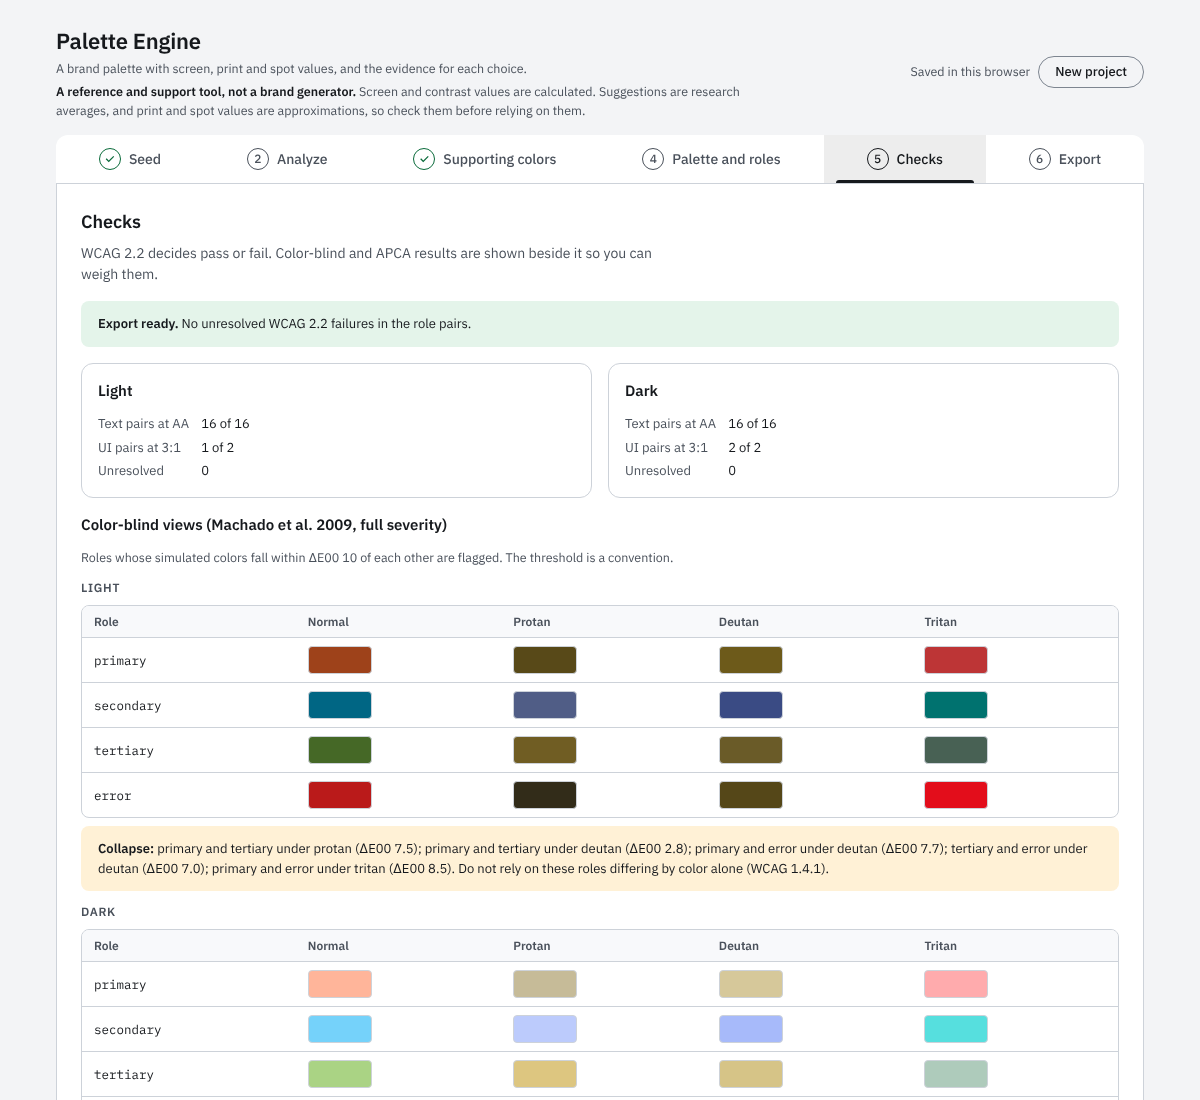
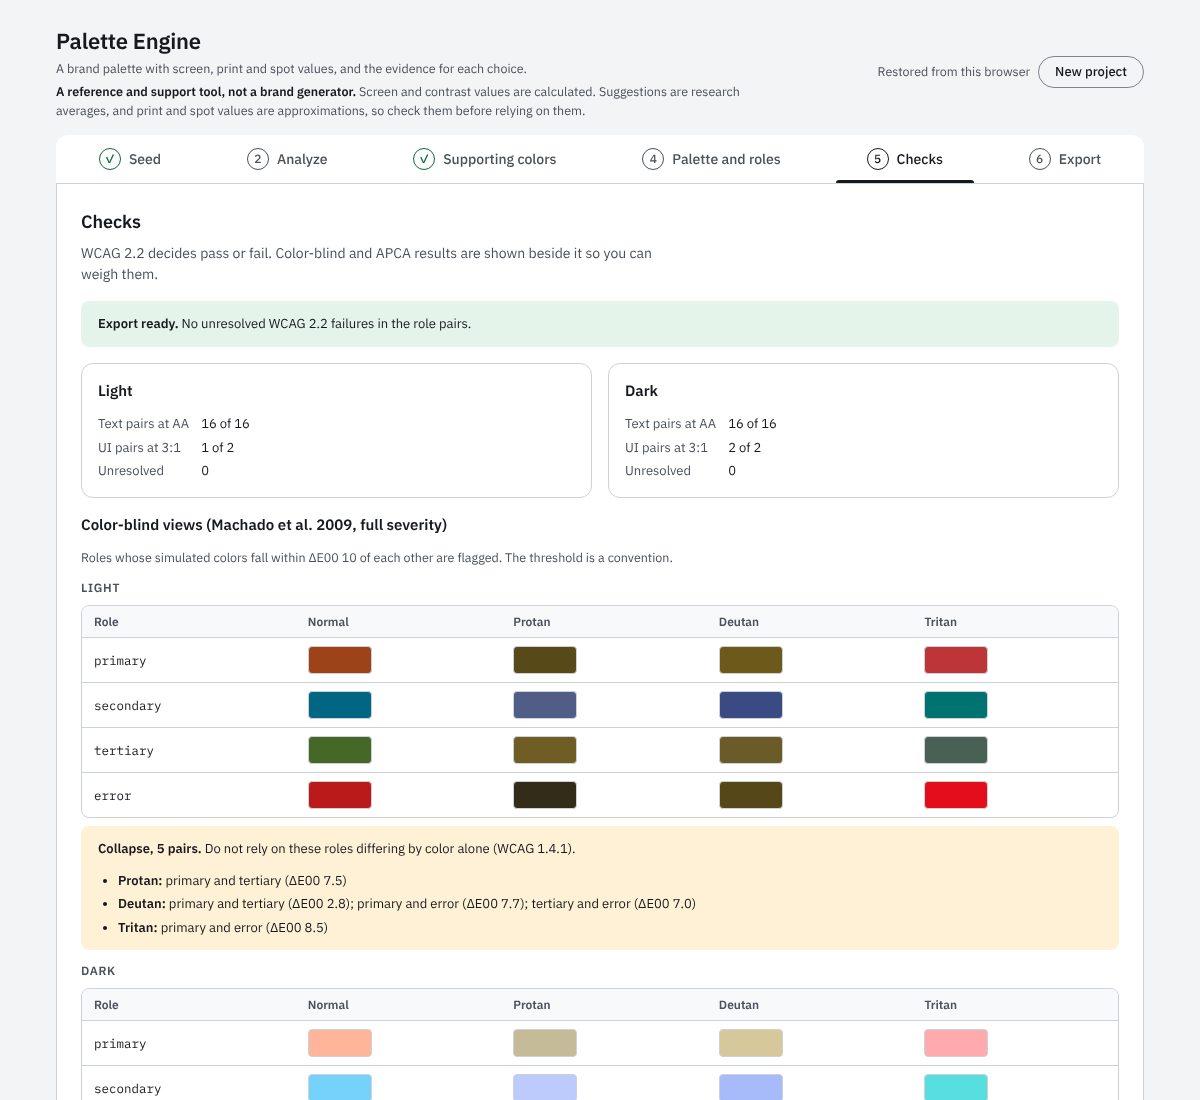
Retake README screenshots; add the proposal and review images (pe-update68)
- All seven step screenshots retaken from the page at pe-update67 in
  IBM Plex (the earlier set had been rendered in a fallback font):
  Step 3 now shows existing and generated colors, Suggest a fix and
  Type a proposal; Export shows the What will export summary.
- New: the existing-or-proposal card after a suggested fix on the
  sample's Fern Green, and pages 2 and 3 of the palette review PDF.
- README text for steps 3, 5 and 6 and the review PDF; the images
  README and the phase log say how and when they were made.
- Docs and images only; no code or test change.

Claude-Session: https://claude.ai/code/session_01731oeFpYHKAPBZQTLZHEbz

diff --git a/README.md b/README.md
@@ -53,19 +53,23 @@ data). The step images are cropped to the top of each step.
 
 **3. Supporting colors.** Harmony lenses propose secondary and tertiary colors, each with the strength of its evidence on the card. Up to three of each: Secondary 1 and Tertiary 1 set Material's secondary and tertiary roles, and the others become extended colors with roles of their own, optionally harmonized toward the primary.
 
-![Supporting colors step: Secondary 1 and Tertiary 1, each with an evidence tier, a lock switch and a rationale field, and buttons to add a second secondary or tertiary color](docs/images/step-3-supporting-colors.png)
+![Supporting colors step: Secondary 1, generated by the complementary lens with its evidence tier, and Tertiary 1, the brand's existing Fern Green, with a Suggest a fix for color-blind views button and a field to type a proposal; each has a name, a lock switch and a rationale](docs/images/step-3-supporting-colors.png)
+
+When a brand already has its colors, each one can carry a proposal: a lens pick, a typed alternative, or a suggested fix for color-blind views. In the sample, Fern Green and Kiln Terracotta look almost the same to someone with deuteranopia (ΔE00 3.4); the suggested fix keeps the hue within 15° and clears that pair. Nothing changes until Use proposal is chosen.
+
+![Tertiary 1 card: the existing Fern Green #5B7F3A in use beside the proposal #6C8C00, ΔE00 9.9 apart and labelled visible adjustment, with Use existing and Use proposal buttons, and the fix result listing the pairs that are still close](docs/images/step-3-existing-vs-proposal.png)
 
 **4. Palette and roles.** Material 3 roles in light and dark, with every text and UI pair checked against WCAG 2.2.
 
 ![Palette and roles step: primary, secondary, tertiary and error roles as swatches with hex values and an Override control](docs/images/step-4-palette-and-roles.png)
 
-**5. Checks.** WCAG 2.2 decides pass or fail. Color-blind simulations and APCA sit beside it, as advice.
+**5. Checks.** WCAG 2.2 decides pass or fail. Color-blind simulations and APCA sit beside it, as advice. When colors have proposals, the step opens by comparing the brand as entered with the proposals.
 
 ![Checks step: WCAG pair counts for light and dark, and color-blind simulations with a warning that some roles collapse](docs/images/step-5-checks.png)
 
-**6. Export.** Six formats plus a project file, all from one model.
+**6. Export.** A summary of exactly what will export, then six formats plus a project file, all from one model. With proposals, a palette review PDF comes first, for deciding with a client before the final files are made.
 
-![Export step: one card per file format with a Save button, a Download all button and a project file section](docs/images/step-6-export.png)
+![Export step: the export-ready note, a What will export table (Secondary 1 added by a lens, Tertiary 1 kept), and the first file cards with Save buttons](docs/images/step-6-export.png)
 
 ### What the exports look like
 
@@ -73,6 +77,11 @@ The printable brand color sheet (PDF) opens with the brand colors and a summary,
 
 ![Page 1 of the brand color sheet: three brand swatches, a colors-at-a-glance table, status notes, and a decisions and exceptions section](docs/images/sheet-page-1-summary.png)
 ![Page 2 of the brand color sheet: the Kiln Terracotta page with screen and print swatches, tonal palette, rationale, print values for six profiles, spot matches and accessibility](docs/images/sheet-page-2-one-color.png)
+
+The palette review (PDF) is a review draft for a client meeting: the palette as entered and with the proposals in typical vision and three color-blind simulations, then a page per proposal with both colors' values, their roles and a decision box. Pages 2 and 3 of the sample, with the suggested fix for Fern Green:
+
+![Page 2 of the palette review: the Fernhill palette as entered and with the proposal, as swatch strips in typical vision and in protanopia, deuteranopia and tritanopia simulation, with the proposed Tertiary 1 marked](docs/images/review-page-2-color-blind.png)
+![Page 3 of the palette review: Fern Green and its proposal side by side with OKLCH, CMYK (the proposal flagged outside print gamut), contrast, closest colors under each color-blind type, light and dark role previews, and a Keep existing, Use proposal or Discuss decision box](docs/images/review-page-3-decision.png)
 
 Website colors (CSS) are plain variables with the OKLCH value in a comment:
 

diff --git a/docs/phase-log.md b/docs/phase-log.md
@@ -193,3 +193,7 @@ Kwade committed pe-update65 as f61c163 and tried it on the live page. He then as
 ## 2026-11-20: Nearest fix for color-blind views (D49; pe-update67)
 
 pe-update66 was committed as be817b1 and Kwade tried the palette review on the live page. pe-update67 adds the nearest fix agreed earlier: one color moves, hue within 15°, and both the brand colors and the key roles have to clear ΔE00 10 under all three simulations. The search checks roles with `keyRoleOf`, a one-role version of the palette build (equal to buildPalette in 240 random tests), which keeps a search to about half a second in the page. The result is shown before anything changes; Make it the proposal puts it beside the existing color, so it flows into the Checks comparison and the review PDF. A full fix is rare: roles sit at tones Material fixes, so colors whose hues confuse under protanopia stay close as roles whatever their lightness, and partial results (with what is still close listed) are the usual answer.
+
+## 2026-11-20: README screenshots retaken (pe-update68, docs only)
+
+After pe-update67 (9904120), Kwade asked whether the README screenshots needed updating. A pixel comparison was not conclusive on its own, because the committed set turned out to have been rendered with a fallback font, not the IBM Plex named in `docs/images/README.md`. All seven step images were retaken in Plex from the page at pe-update67, which brings in the Step 3 labels (existing and generated colors, Suggest a fix, Type a proposal), the Export summary and the Analyze overview's Details buttons. Three images were added for D47 to D49: the existing-or-proposal card after a suggested fix on the sample's Fern Green (close to Kiln Terracotta under deuteranopia, ΔE00 3.4; the fix, #6C8C00, is ΔE00 9.9 away and clears that pair, though it falls outside GRACoL coated gamut), and pages 2 and 3 of the palette review PDF. The brand color sheet images are unchanged.

diff --git a/docs/images/README.md b/docs/images/README.md
@@ -1,7 +1,9 @@
 # Screenshots
 
-Images used by the root `README.md`. They show the fictional **Fernhill Bakery** example (`examples/fernhill-bakery/`) opened through the page's own
-"Open project file" control, in a light-mode browser at 1200 px wide, with IBM Plex Sans and Plex Mono. The step screenshots are cropped to the top of each
+Images used by the root `README.md`. They show the fictional **Fernhill Bakery** example (`examples/fernhill-bakery/`) restored from browser storage (so the header reads
+"Restored from this browser"), in a light-mode browser at 1200 px wide, with IBM Plex Sans and Plex Mono. The step screenshots are cropped to the top of each
 step; the page continues below them. The two `sheet-page-*` images are pages 1 and 2 of the exported PDF, rasterized at 80 dpi.
 
-They were made on 2026-10-14 from the page built at that date and are not regenerated by any test, so they can drift from the page. Retake them after a visual change.
+All step images were retaken on 2026-11-20 from the page at pe-update67, with IBM Plex Sans and Plex Mono loaded into the page (the earlier set had been rendered with a fallback font despite the note above). `step-3-existing-vs-proposal.png` is the Tertiary 1 card cropped to its top, after Suggest a fix for color-blind views on Fern Green and Make it the proposal. `step-2-analyze-palette.png` adds Oat #E8DCC4, Crust Gold #F2C14E and Plum #793974 to the sample. The two `review-page-*` images are pages 2 and 3 of the palette review PDF for that same state, rasterized at 80 dpi; the `sheet-page-*` images are unchanged, because the sample's brand color sheet is byte-identical.
+
+The images are not regenerated by any test, so they can drift from the page. Retake them after a visual change.
